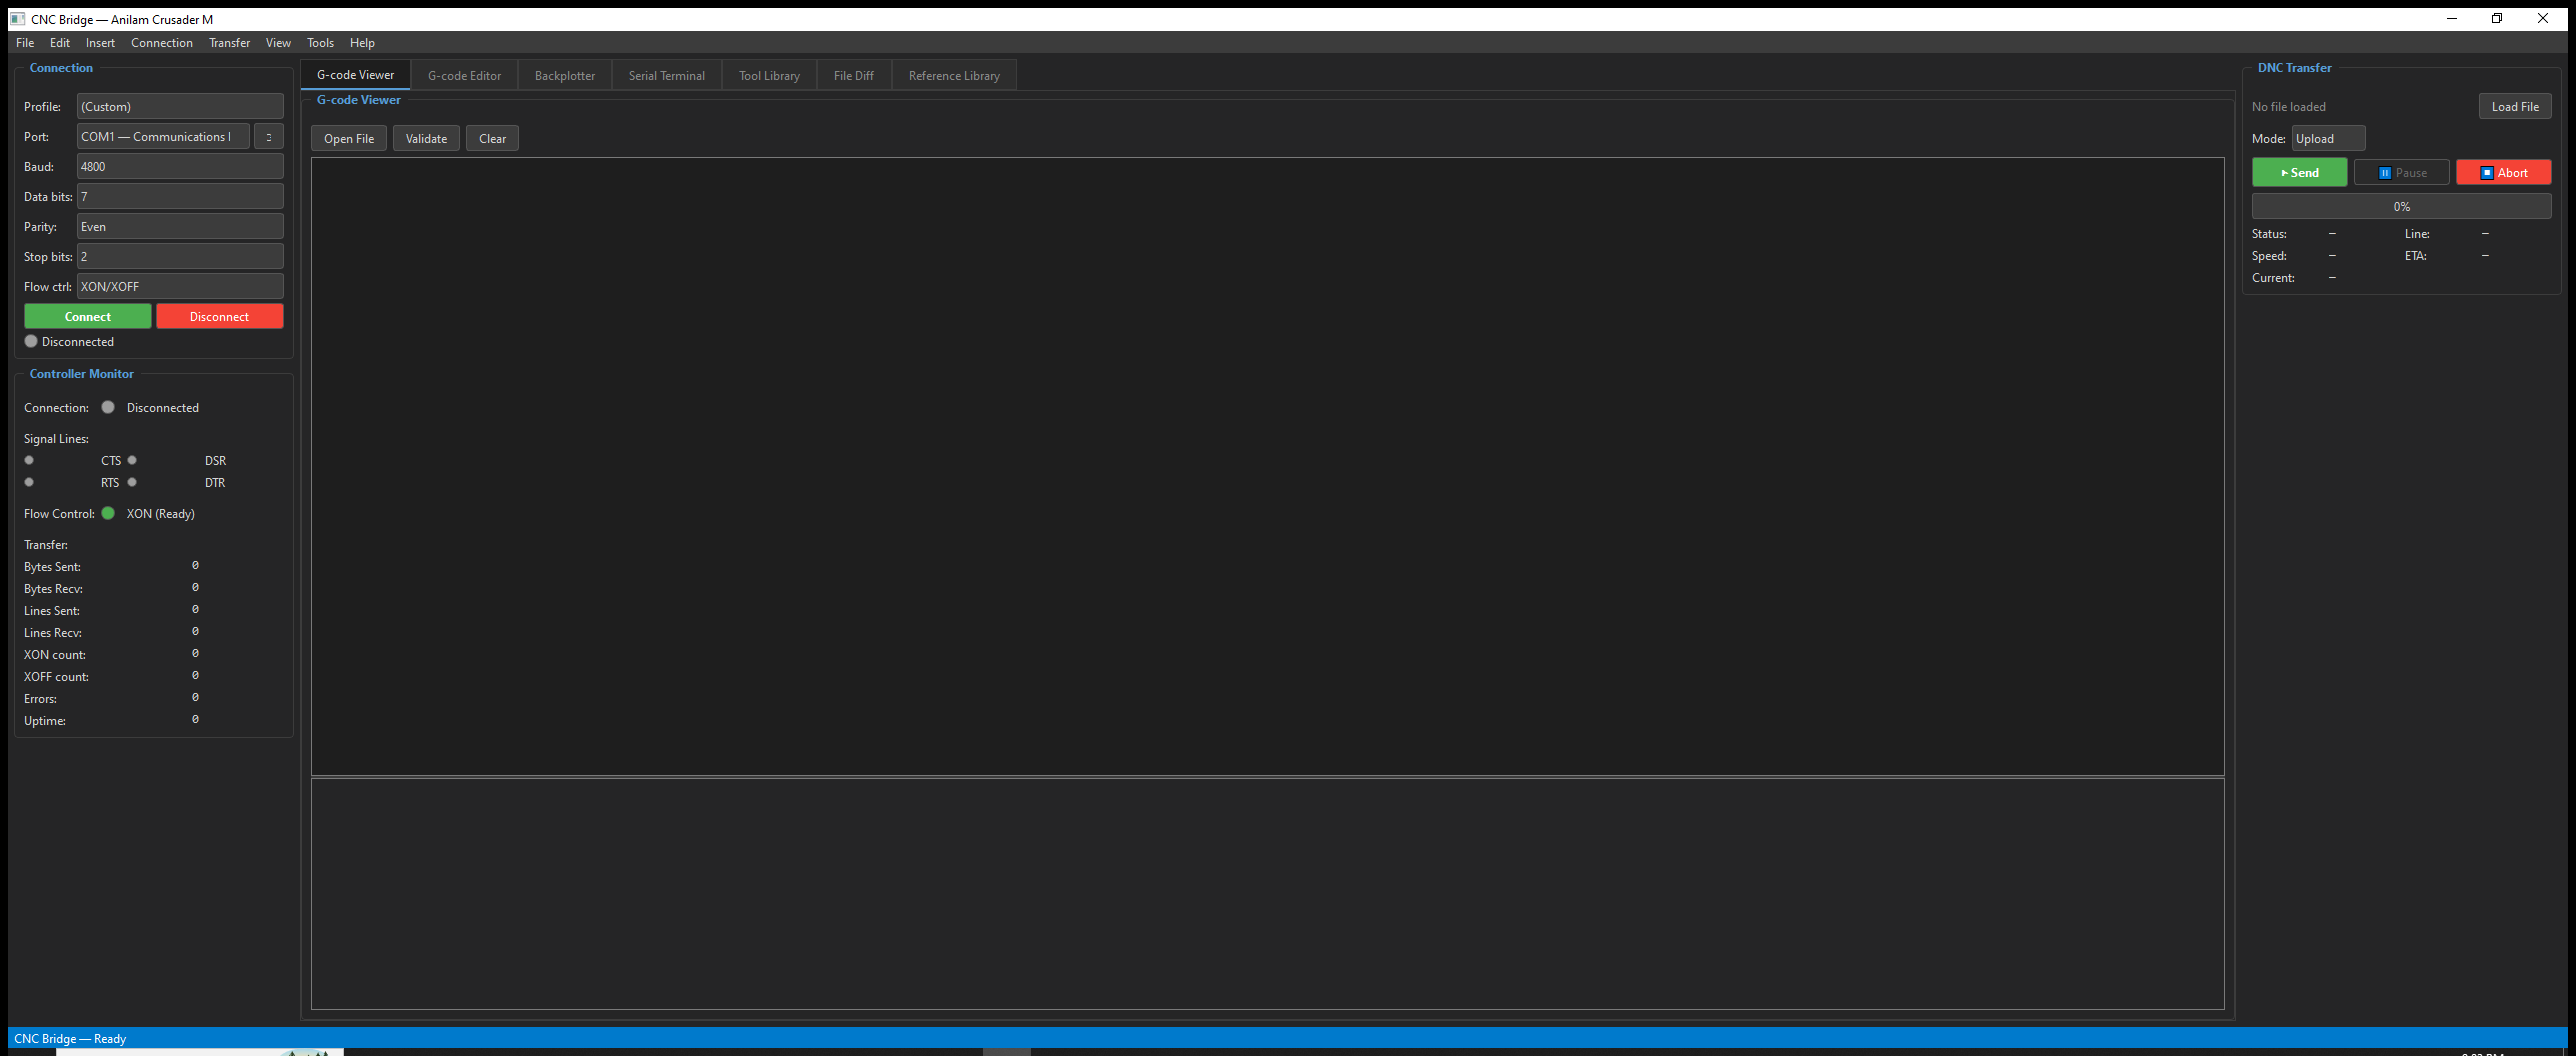
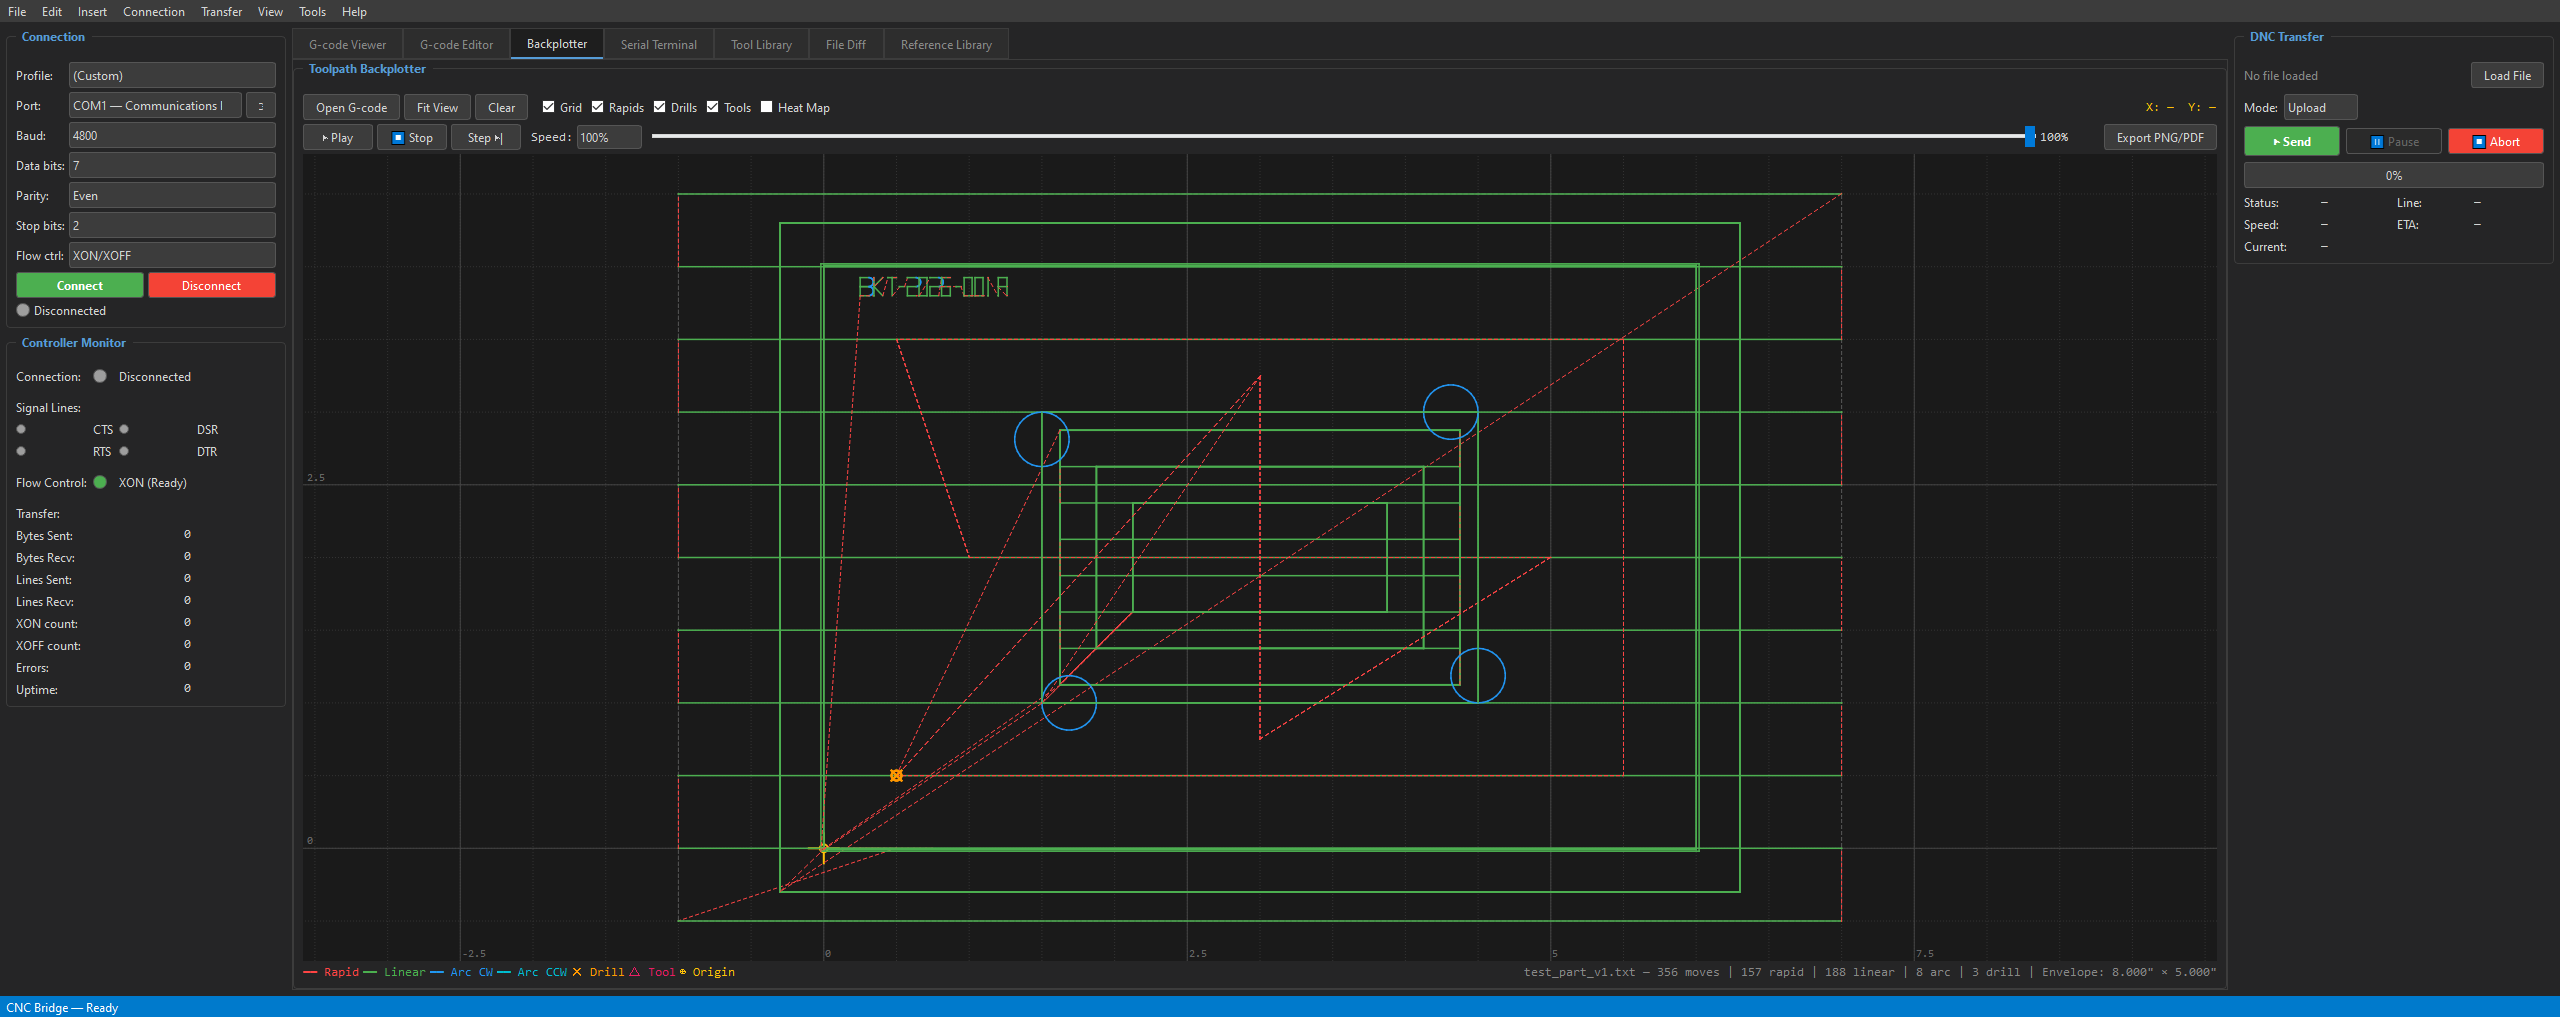
Update documentation and screenshots for v3.0
- Capture fresh dashboard screenshots with test program data loaded
- Add v3.0 features section to README (macro recorder, program library,
  comment translator, dark/light theme, touch mode, speed control,
  import from code, tool lib save/load, diff preview, validation colors)
- Update project structure tree with new files (macro_recorder.py,
  program_library.py, comment_translator.py, test_programs/, capture_screenshots.py)
- Update quickstart.md: v3.0 download link, new feature tips
- Update troubleshooting.md: tool library, speed control, theme, macro sections
- Update quick-reference-card.md: v3.0 features table, version bump
- Add capture_screenshots.py for automated screenshot generation

diff --git a/bridge-app/capture_screenshots.py b/bridge-app/capture_screenshots.py
@@ -1,0 +1,127 @@
+"""
+Capture dashboard screenshots for README documentation.
+
+Launches the app, auto-loads test data into each tab, and saves PNG screenshots.
+Run:  python capture_screenshots.py
+"""
+
+import sys
+import os
+import time
+
+# Ensure we can import the src package
+sys.path.insert(0, os.path.dirname(__file__))
+
+from PyQt6.QtWidgets import QApplication
+from PyQt6.QtCore import QTimer
+from src.ui.main_window import MainWindow
+
+OUTPUT_DIR = os.path.join(os.path.dirname(__file__), "..", "docs", "images")
+TEST_FILE = os.path.join(os.path.dirname(__file__), "test_programs", "test_part_v1.txt")
+TEST_FILE_2 = os.path.join(os.path.dirname(__file__), "test_programs", "test_part_v2.txt")
+
+
+def capture_tab(window: MainWindow, tab_index: int, filename: str):
+    """Switch to a tab and capture its screenshot."""
+    window.tabs.setCurrentIndex(tab_index)
+    QApplication.processEvents()
+    time.sleep(0.3)
+    QApplication.processEvents()
+
+    # Grab the whole window
+    screen = window.grab()
+    filepath = os.path.join(OUTPUT_DIR, filename)
+    screen.save(filepath, "PNG")
+    print(f"  Saved: {filepath}")
+
+
+def run_captures(window: MainWindow):
+    """Load data and capture all tabs."""
+    os.makedirs(OUTPUT_DIR, exist_ok=True)
+
+    # Read test file
+    with open(TEST_FILE, 'r', encoding='utf-8') as f:
+        test_code = f.read()
+
+    print("Loading test data into tabs...")
+
+    # --- Tab 0: G-code Viewer ---
+    window.tabs.setCurrentIndex(0)
+    QApplication.processEvents()
+    window.gcode_viewer.load_file(TEST_FILE)
+    QApplication.processEvents()
+    # Run validation to show color-coded output
+    window.gcode_viewer._validate()
+    QApplication.processEvents()
+    time.sleep(0.3)
+    capture_tab(window, 0, "dashboard-gcode-viewer.png")
+
+    # --- Tab 1: G-code Editor ---
+    window.tabs.setCurrentIndex(1)
+    QApplication.processEvents()
+    window.gcode_editor.load_file(TEST_FILE)
+    QApplication.processEvents()
+    time.sleep(0.3)
+    capture_tab(window, 1, "dashboard-gcode-editor.png")
+
+    # --- Tab 2: Backplotter ---
+    window.tabs.setCurrentIndex(2)
+    QApplication.processEvents()
+    window.backplotter.load_text(test_code, "test_part_v1.txt")
+    QApplication.processEvents()
+    time.sleep(0.5)
+    capture_tab(window, 2, "dashboard-backplotter.png")
+
+    # --- Tab 3: Serial Terminal ---
+    capture_tab(window, 3, "dashboard-serial-terminal.png")
+
+    # --- Tab 4: Tool Library ---
+    # Import tools from the loaded code
+    window.tabs.setCurrentIndex(4)
+    QApplication.processEvents()
+    from src.ui.tool_library import ToolLibraryPanel
+    tools = ToolLibraryPanel._parse_tools_from_gcode(test_code)
+    for tool in tools:
+        window.tool_library._settings.add_tool(tool)
+    window.tool_library._refresh_table()
+    QApplication.processEvents()
+    time.sleep(0.3)
+    capture_tab(window, 4, "dashboard-tool-library.png")
+
+    # --- Tab 5: File Diff ---
+    window.tabs.setCurrentIndex(5)
+    QApplication.processEvents()
+    with open(TEST_FILE, 'r', encoding='utf-8') as f:
+        text_a = f.read()
+    with open(TEST_FILE_2, 'r', encoding='utf-8') as f:
+        text_b = f.read()
+    from pathlib import Path
+    window.file_diff._load_texts(text_a, text_b,
+                                  Path(TEST_FILE).name, Path(TEST_FILE_2).name)
+    QApplication.processEvents()
+    time.sleep(0.3)
+    capture_tab(window, 5, "dashboard-file-diff.png")
+
+    # --- Tab 6: Reference Library ---
+    capture_tab(window, 6, "dashboard-reference-library.png")
+
+    # --- Main overview (tab 0) ---
+    capture_tab(window, 0, "dashboard-main.png")
+
+    print(f"\nAll screenshots saved to {OUTPUT_DIR}")
+    QApplication.quit()
+
+
+def main():
+    app = QApplication(sys.argv)
+    window = MainWindow()
+    window.showMaximized()
+
+    # Delay to let the window fully render
+    QTimer.singleShot(1500, lambda: run_captures(window))
+
+    app.exec()
+
+
+if __name__ == "__main__":
+    main()

diff --git a/README.md b/README.md
@@ -7,7 +7,20 @@ A complete communication bridge between **Autodesk Fusion 360** and the **Anilam
 3. **ESP32 Hardware Bridge** — Standalone firmware for WiFi-enabled DNC transfer and OLED status display
 4. **Reference Library** — 228 searchable entries + 18 scanned document PDFs (472 pages) with embedded viewer
 
-### v2.1 New Features
+### v3.0 New Features
+- **Macro Recorder** — record/play/edit keystroke macros for repetitive editing tasks
+- **Program Library** — tag, search, and organize saved G-code programs with metadata
+- **Comment Translator** — auto-translate G-code comments between English, Spanish, and French
+- **Dark / Light Theme** — VS Code-inspired dark theme (default) with one-click toggle to light
+- **Touch-Screen Mode** — enlarged buttons and controls for shop-floor touchscreen PCs
+- **Backplotter Speed Control** — adjustable playback speed (100% / 75% / 50% / 25% / 10% / 5%)
+- **Tool Library — Import from Code** — parse tool comments and T10xx tables from G-code files
+- **Tool Library — Save / Load** — export and import tool libraries as JSON files (replace or merge)
+- **File Diff — Preview on Load** — shows both files immediately when loaded, before running diff
+- **Validation Color-Coding** — G-code viewer highlights error lines red and warning lines yellow
+- **Validation Output Highlighting** — [ERROR] and [WARN] rows in the validation summary are color-coded
+
+### v2.1 Features
 - **Connection Test / Handshake** — 8-step COM port diagnostic (signal lines, DTR/RTS toggle, XON, echo, data write)
 - **Error Logging System** — rotating file loggers (`logs/cnc_bridge.log` + `logs/errors.log`) with console output
 - **Feed-Rate Heat Map** — Backplotter colors toolpath by feed rate (blue→green→yellow→red)
@@ -167,6 +180,10 @@ CNC Bridge/
 ├── bridge-app/                   # Python desktop application
 │   ├── requirements.txt
 │   ├── run.bat                   # Quick-start launcher
+│   ├── capture_screenshots.py    # Auto-capture dashboard screenshots
+│   ├── test_programs/            # Sample test G-code programs
+│   │   ├── test_part_v1.txt      # Rev A — 8 tools, 510 lines
+│   │   └── test_part_v2.txt      # Rev B — 9 tools, 552 lines
 │   └── src/
 │       ├── main.py               # App entry point
 │       ├── core/
@@ -179,13 +196,16 @@ CNC Bridge/
 │       │   ├── backup_vault.py   # Program backup archive
 │       │   ├── update_checker.py # GitHub release update checker
 │       │   ├── connection_tester.py # 8-step COM port handshake test
-│       │   └── error_logger.py   # Rotating file log system
+│       │   ├── error_logger.py   # Rotating file log system
+│       │   ├── macro_recorder.py # Keystroke macro recorder/player
+│       │   ├── program_library.py # G-code program organizer
+│       │   └── comment_translator.py # G-code comment translator
 │       ├── ui/
 │       │   ├── main_window.py    # PyQt6 monitoring dashboard (7 tabs)
 │       │   ├── gcode_editor.py   # G-code editor with syntax highlighting
-│       │   ├── backplotter.py    # 2D toolpath visualization
-│       │   ├── tool_library.py   # Tool database management
-│       │   ├── file_diff.py      # Side-by-side file comparison
+│       │   ├── backplotter.py    # 2D toolpath visualization + speed control
+│       │   ├── tool_library.py   # Tool database + import from code + save/load
+│       │   ├── file_diff.py      # Side-by-side file comparison + preview on load
 │       │   ├── library_panel.py  # Searchable reference library UI
 │       │   └── pdf_viewer.py     # Embedded PDF page viewer
 │       └── utils/
@@ -246,9 +266,15 @@ Or on Windows, just double-click `run.bat`.
 - **G-Code Viewer** — Syntax-highlighted viewer with Anilam-specific validation
 - **G-Code Editor** — Full editor with syntax highlighting, line numbers, find/replace, undo/redo, inline validation markers, cycle time estimate, send to controller
 - **2D Backplotter** — Visual toolpath preview with rapid/feed/arc colors, pan, zoom, grid, feed-rate heat map, toolpath animation (play/pause/step/scrub), export PNG/PDF
-- **Tool Library** — Manage tools with diameter/length/flutes, generate T10xx table blocks
-- **File Diff** — Side-by-side G-code comparison with color-coded additions/deletions
+- **Tool Library** — Manage tools with diameter/length/flutes, generate T10xx table blocks, import from G-code, save/load JSON files
+- **File Diff** — Side-by-side G-code comparison with color-coded additions/deletions, preview on load
 - **Reference Library** — 228 searchable entries covering G-codes, M-codes, AUX codes, canned cycles
+- **Macro Recorder** — Record, play, and edit keystroke macros for repetitive editing tasks
+- **Program Library** — Tag, search, and organize saved G-code programs with metadata
+- **Comment Translator** — Auto-translate G-code comments between English, Spanish, and French
+- **Dark / Light Theme** — VS Code-inspired dark theme with one-click toggle
+- **Touch-Screen Mode** — Enlarged buttons and controls for shop-floor touchscreen PCs
+- **Validation Color-Coding** — Error/warning highlighting in viewer and validation output
 - **Connection Test** — 8-step COM port handshake diagnostic (signal lines, DTR/RTS, XON, echo, data write)
 - **Send-Receive-Verify** — Round-trip transfer integrity check (send → receive → compare)
 - **Serial Traffic Logger** — Auto-logs all sent/received data to timestamped session files

diff --git a/docs/troubleshooting.md b/docs/troubleshooting.md
@@ -138,9 +138,57 @@ Also ensure your Anilam PDF files are in the configured directory (`F:\anilam\An
 
 Settings are stored in `bridge-app/config/settings.json`. Ensure the `config/` directory is writable. If running from a read-only location, copy the bridge-app folder to a writable directory.
 
+### "Theme Not Changing"
+
+If changing between dark and light theme doesn't take effect:
+1. Go to **View → Theme** and toggle the theme
+2. The theme change is applied immediately — no restart needed
+3. If the theme reverts on restart, check that `config/settings.json` is writable
+
+### "Tool Library Import from Code Finds No Tools"
+
+The Import from Code feature looks for two patterns:
+1. **Tool comments**: `( T1 — 0.500 4FL END MILL )` — requires a T-number followed by dash/em-dash and description
+2. **T10xx table blocks**: `T1001 X0.5000 Z3.2500` — standard Anilam tool table format
+
+If no tools are found:
+- Ensure your G-code uses standard Anilam tool comment format
+- Check that tool comments use `T` followed by a number
+- The Import dialog will report how many tools were parsed
+
+### "Tool Library Save/Load Not Working"
+
+- **Save to File** exports tools as a `.json` file — check that the target directory is writable
+- **Load from File** imports a previously saved `.json` file — you can choose Replace (clear existing) or Merge (add new)
+- If merge produces duplicates, tools are matched by tool number
+
+### "Backplotter Speed Control Has No Effect"
+
+- Speed control only affects animated playback (Play button), not static rendering
+- If the program is very short (<50 lines), speed differences may be subtle at higher speeds
+- Try 5% or 10% speed for clearly visible slow playback
+- Speed changes take effect immediately during active playback
+
+### "Macro Recorder Not Recording"
+
+- Macros record editor keystrokes only — they do not record mouse actions or menu clicks
+- Start recording before making edits, then stop when done
+- Saved macros persist in `config/macros.json`
+
 ---
 
-## Connection Testing (v2.1)
+## Theming & Display Issues
+
+### Touch-Screen Mode
+
+If controls are too small on your shop-floor touchscreen:
+1. Go to **View → Touch Mode** to enable enlarged buttons and controls
+2. Touch mode increases button size, spacing, and font size for easier touch interaction
+3. The setting persists between sessions
+
+---
+
+## Connection Testing (v2.1+)
 
 ### Using the Connection Test
 Go to **Connection → Test Connection** to run an 8-step diagnostic:

diff --git a/docs/quickstart.md b/docs/quickstart.md
@@ -7,7 +7,7 @@ Get CNC Bridge running and send your first program to the Anilam Crusader M in 5
 ## Step 1: Install
 
 ### Option A: Standalone .exe (Recommended)
-1. Download `CNC-Bridge-Desktop-v2.1.zip` from [GitHub Releases](https://github.com/Apocscode/CNC-Bridge/releases)
+1. Download `CNC-Bridge-Desktop-v3.0.zip` from [GitHub Releases](https://github.com/Apocscode/CNC-Bridge/releases)
 2. Extract to any folder (e.g., `C:\CNC-Bridge`)
 3. Run `CNC-Bridge.exe`
 
@@ -86,11 +86,20 @@ You need a **custom RS232 cable** — standard cables will NOT work.
 - **Use Connection → Test Connection** before your first transfer to verify cable and handshake
 - **Use Transfer → Send-Receive-Verify** to confirm transfer integrity (sends, receives back, compares)
 - **Inline validation** — click Validate in the Editor to see wavy underline markers on error lines
+- **Validation color-coding** — error lines are highlighted red and warnings yellow in the Viewer
 - **Toolpath animation** — use Play/Pause/Step in the Backplotter to step through cuts
+- **Playback speed** — use the Speed dropdown (100% / 75% / 50% / 25% / 10% / 5%) to slow down the animation
 - **Feed-rate heat map** — toggle Heat Map in the Backplotter to color toolpath by feed rate
 - **Export backplot** — save your toolpath as PNG or PDF for documentation
 - **Insert → Snippets** — 8 Anilam-specific G-code templates (header, footer, tool change, drilling, etc.)
 - **Use the Tool Library** (Tool Library tab) to manage your tools and generate T10xx table blocks
+- **Import from Code** — click "Import from Code" in the Tool Library to parse tools from a G-code file
+- **Save / Load Tool Libraries** — export and import tool sets as JSON files
+- **Macro Recorder** — record keystroke macros for repetitive edits (View → Macro Recorder)
+- **Program Library** — tag, search, and organize your saved programs
+- **Comment Translator** — auto-translate G-code comments between English, Spanish, and French
+- **Dark / Light Theme** — toggle between VS Code dark and light themes (View → Theme)
+- **Touch-Screen Mode** — enable enlarged buttons for shop-floor touchscreens (View → Touch Mode)
 - **Serial traffic is logged** automatically in `logs/serial/` — useful for debugging
 - **Error logs** are saved in `logs/cnc_bridge.log` and `logs/errors.log` (rotating file loggers)
 - **Programs are backed up** automatically in `backups/` — you'll never lose a program

diff --git a/docs/quick-reference-card.md b/docs/quick-reference-card.md
@@ -132,6 +132,23 @@ Pins 4, 5, 6, 8, 20  → Jumper together on DB-25 side
 
 ---
 
+## v3.0 Features Quick Reference
+
+| Feature | Where | Description |
+|---------|-------|-------------|
+| Dark / Light Theme | View → Theme | Toggle between VS Code dark and light themes |
+| Touch-Screen Mode | View → Touch Mode | Enlarged controls for shop-floor touchscreens |
+| Macro Recorder | View → Macro Recorder | Record/play/edit keystroke macros |
+| Program Library | File → Program Library | Tag, search, organize saved programs |
+| Comment Translator | Tools → Translate Comments | Translate comments (EN/ES/FR) |
+| Import from Code | Tool Library tab | Parse tools from G-code comments & T10xx blocks |
+| Save/Load Tools | Tool Library tab | Export/import tool sets as JSON |
+| Speed Control | Backplotter tab | 100% / 75% / 50% / 25% / 10% / 5% playback |
+| Preview on Load | File Diff tab | Shows both files immediately when loaded |
+| Validation Colors | G-code Viewer tab | Errors red, warnings yellow in code & output |
+
+---
+
 ## Transfer Checklist
 
 - [ ] Cable connected (DB-25 ↔ DB-9 via USB-Serial adapter)
@@ -156,4 +173,4 @@ Pins 4, 5, 6, 8, 20  → Jumper together on DB-25 side
 
 ---
 
-*CNC Bridge v2.0 — © 2025 Apocscode — MIT License*
+*CNC Bridge v3.0 — © 2025 Apocscode — MIT License*
